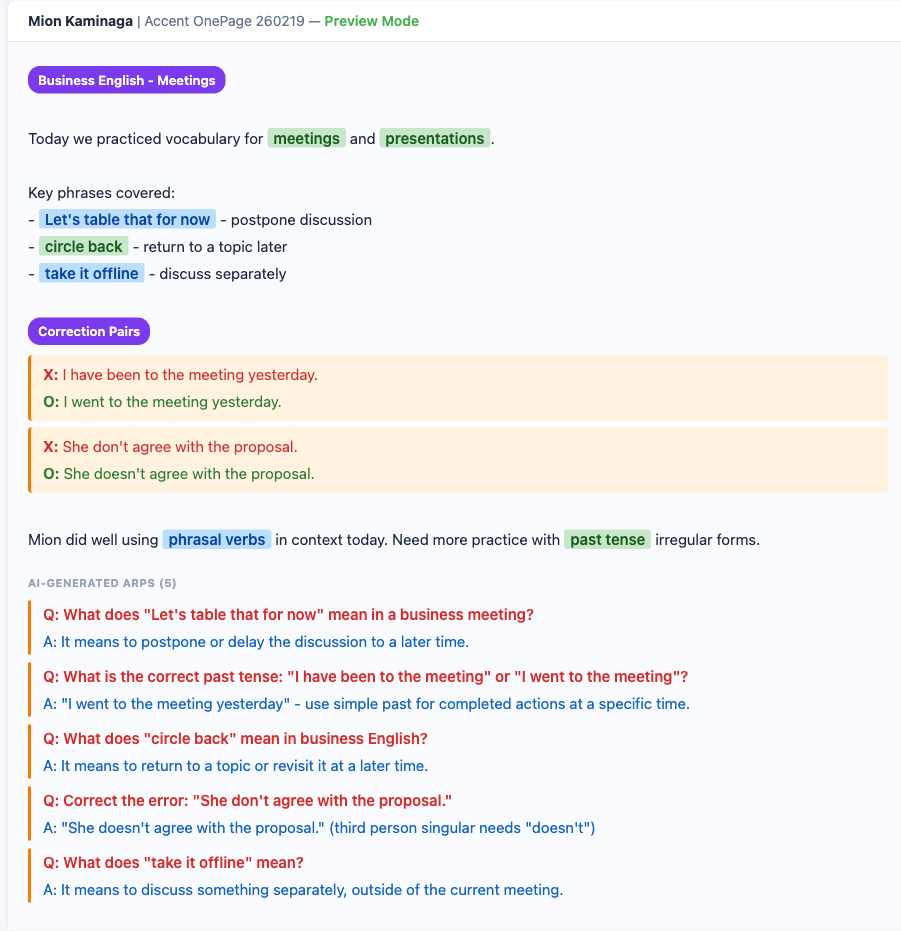
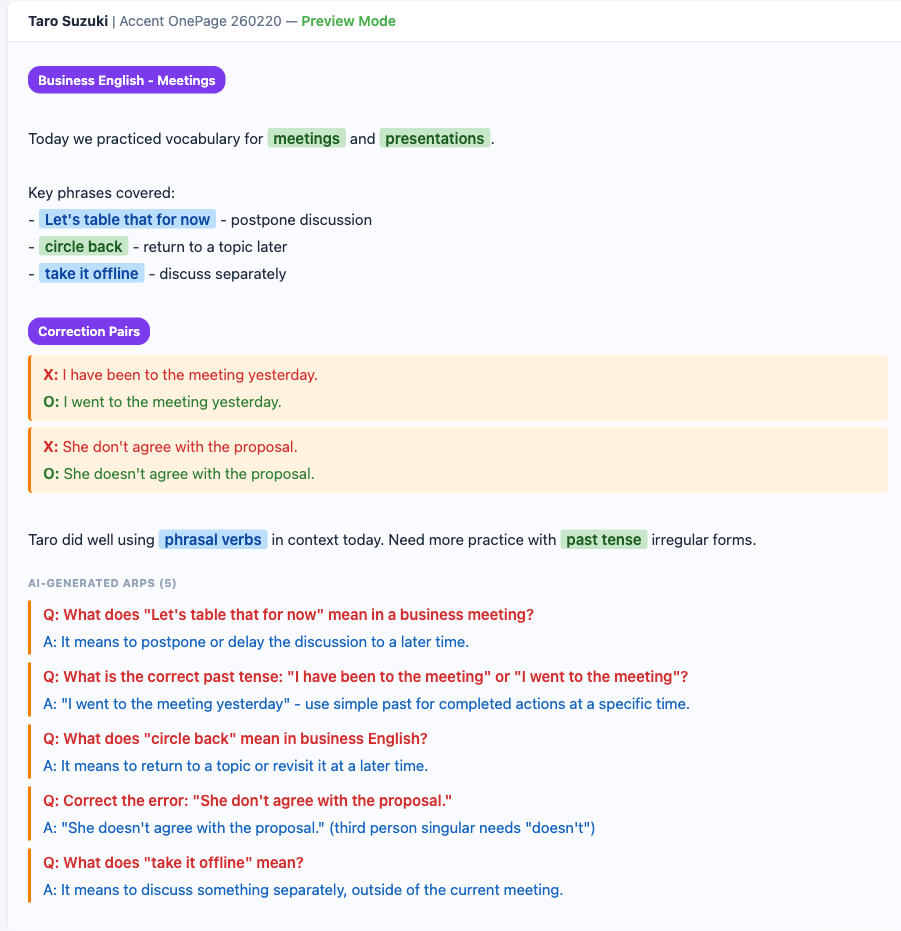
docs: add screenshots to canvas.md, rename student to Taro Suzuki
Add raw editor and preview mode screenshots to the main canvas page.
Recaptured mock screenshots using "Taro Suzuki" instead of real
student name.

Changed region(s): [[0.0311, 0.5607, 0.8391, 0.5918], [0.0311, 0.0, 0.4661, 0.0311]]

diff --git a/docs/educators/canvas.md b/docs/educators/canvas.md
@@ -44,6 +44,8 @@ You can also highlight text and click the **Keyword** or **Topic Tag** buttons i
 
 For a complete walkthrough of the syntax, toolbar buttons, and workflow, see [Creating Content: Keywords, CIPs & ARPs](/educators/canvas-content-guide).
 
+![Canvas editor with curly bracket syntax and toolbar](/img/educators/canvas-raw-with-toolbar.png)
+
 ### Active Recall Pairs (ARPs)
 
 ARPs are question-answer pairs that reinforce learning through active recall:
@@ -64,6 +66,8 @@ Mark language as **correct** or **incorrect** during the lesson:
 Correction pairs are the foundation of the Living Textbook methodology. They capture real moments from conversation and turn them into personalized learning material.
 
 Learn more: [Creating Correction Pairs](/educators/canvas-content-guide#creating-correction-pairs-cips)
+
+![Canvas in preview mode showing styled keywords, correction pairs, and AI-generated ARPs](/img/educators/canvas-preview-mode.png)
 
 ### Auto-Save
 
